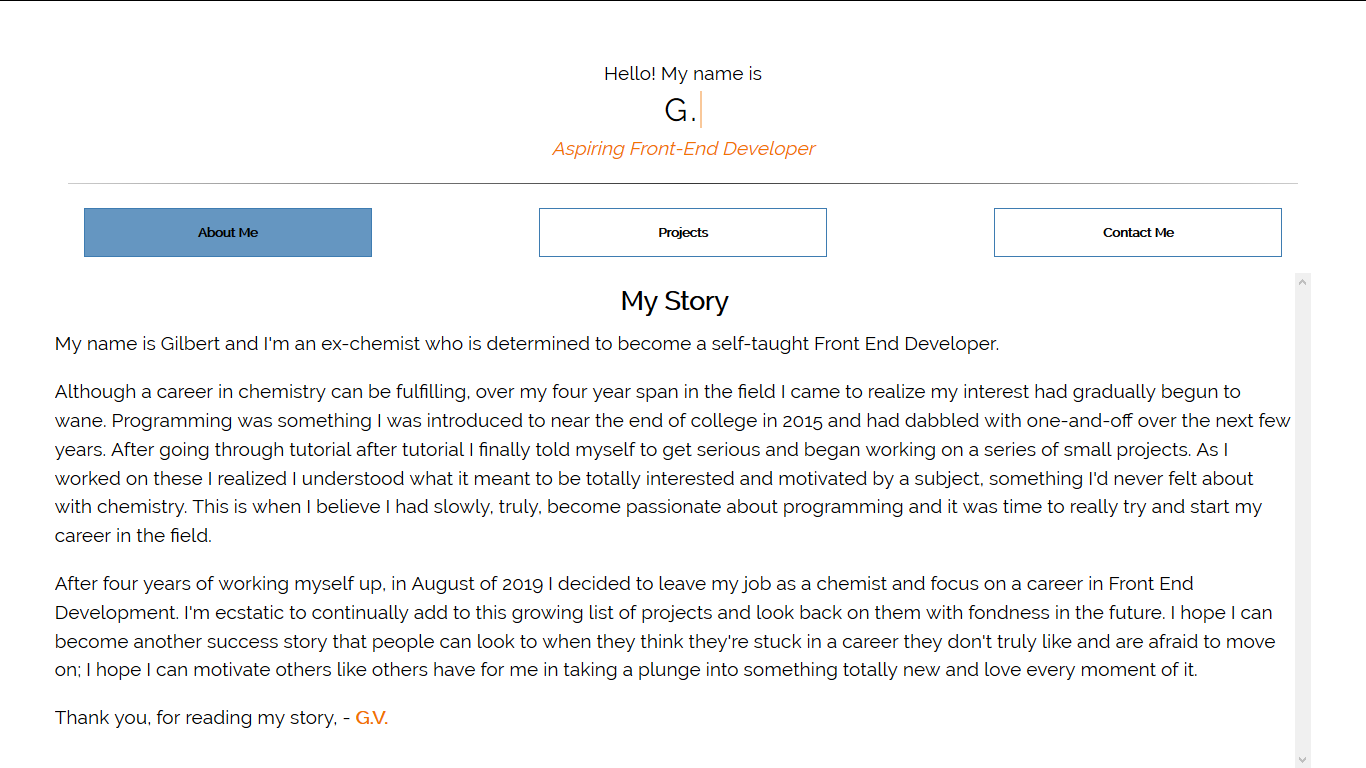
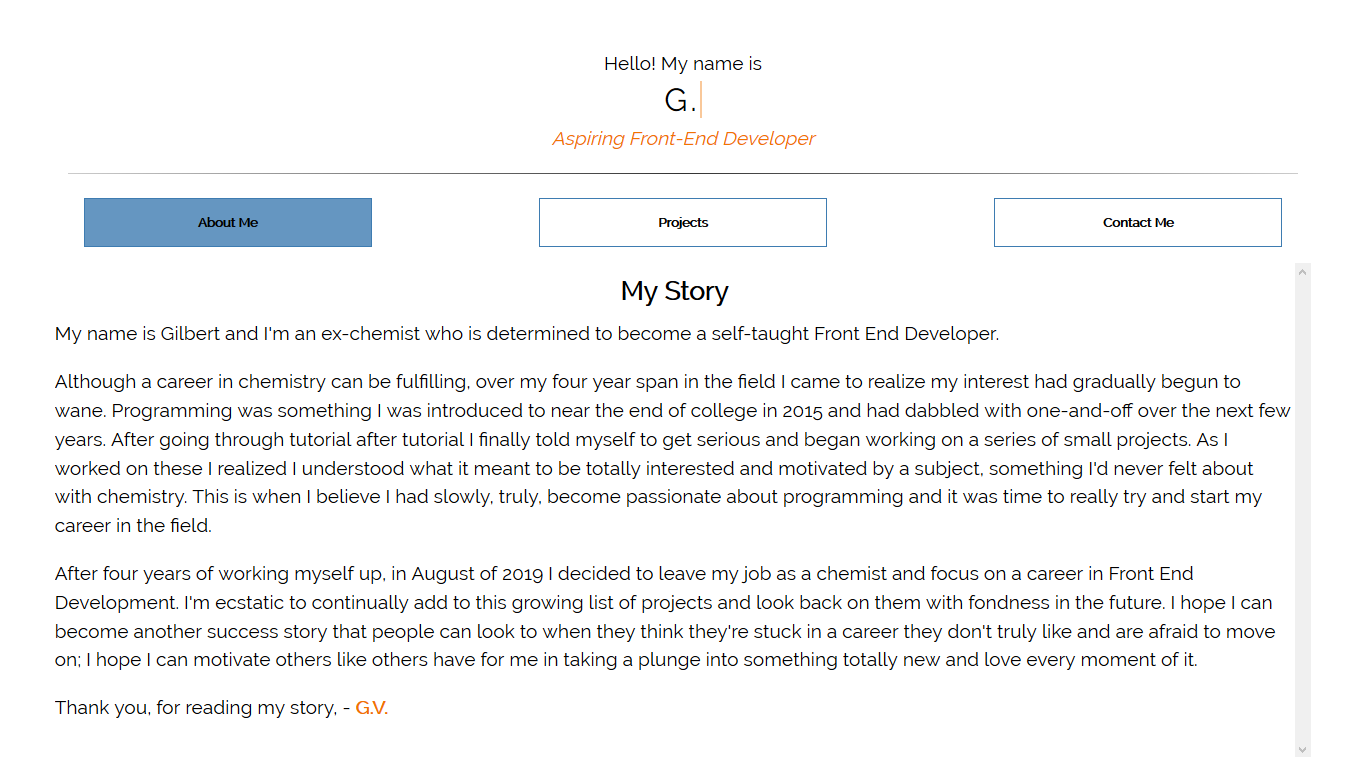
Updates

diff --git a/static/js/main.bcdf3293.chunk.js b/static/js/main.bcdf3293.chunk.js
@@ -1,0 +1,2 @@
+(this.webpackJsonpresume=this.webpackJsonpresume||[]).push([[0],[,,,,function(e,t,a){e.exports=a(17)},,,,,function(e,t,a){},function(e,t,a){},function(e,t,a){},function(e,t,a){},function(e,t,a){},function(e,t,a){},function(e,t,a){},function(e,t,a){},function(e,t,a){"use strict";a.r(t);var l=a(0),n=a.n(l),c=a(2),i=a.n(c),r=(a(9),a(3)),o=(a(10),a(11),function(){var e=["Gilbert Velazquez","Gil","Gilb\xe9","Gilly","Gilby","G."];return Object(l.useEffect)((function(){var t=document.getElementById("name"),a=1;t.addEventListener("animationiteration",(function(l){return function(l){if("typing"===l.animationName){!function l(){if(a<e.length){var n=e[a];t.innerText=n,a+=1}else a=0,l()}()}}(l)}))}),[]),n.a.createElement("div",{className:"header"},n.a.createElement("p",null,"Hello! My name is"),n.a.createElement("span",null,n.a.createElement("h1",{id:"name"},"Gilbert Velazquez")),n.a.createElement("h2",null,"Aspiring Front-End Developer"))}),m=(a(12),function(e){var t=e.titles,a=(e.category,e.click);return n.a.createElement("div",{className:"buttons-container"},t.map((function(e){return n.a.createElement("div",{className:"button",id:e,key:e,onClick:a,tabIndex:"0"},n.a.createElement("p",null,e))})))}),s=(a(13),a(14),function(){return n.a.createElement("div",{className:"about",id:"About Me-sec"},n.a.createElement("h3",null,"My Story"),n.a.createElement("p",null,"My name is Gilbert and I'm an ex-chemist who is determined to become a self-taught Front End Developer."),n.a.createElement("br",null),n.a.createElement("p",null,"Although a career in chemistry can be fulfilling, over my four year span in the field I came to realize my interest had gradually begun to wane. Programming was something I was introduced to near the end of college in 2015 and had dabbled with one-and-off over the next few years. After going through tutorial after tutorial I finally told myself to get serious and began working on a series of small projects. As I worked on these I realized I understood what it meant to be totally interested and motivated by a subject, something I'd never felt about with chemistry. This is when I believe I had slowly, truly, become passionate about programming and it was time to really try and start my career in the field."),n.a.createElement("br",null),n.a.createElement("p",null,"After four years of working myself up, in August of 2019 I decided to leave my job as a chemist and focus on a career in Front End Development. I'm ecstatic to continually add to this growing list of projects and look back on them with fondness in the future. I hope I can become another success story that people can look to when they think they're stuck in a career they don't truly like and are afraid to move on; I hope I can motivate others like others have for me in taking a plunge into something totally new and love every moment of it."),n.a.createElement("br",null),n.a.createElement("p",null,"Thank you, for reading my story, - ",n.a.createElement("span",{className:"name"},"G.V.")))}),u=(a(15),function(){var e=[{name:"JavaScript",svg:n.a.createElement("svg",{role:"img",width:"35",height:"35",viewBox:"0 0 24 24",xmlns:"http://www.w3.org/2000/svg"},n.a.createElement("title",null,"JavaScript icon"),n.a.createElement("path",{d:"M0 0h24v24H0V0zm22.034 18.276c-.175-1.095-.888-2.015-3.003-2.873-.736-.345-1.554-.585-1.797-1.14-.091-.33-.105-.51-.046-.705.15-.646.915-.84 1.515-.66.39.12.75.42.976.9 1.034-.676 1.034-.676 1.755-1.125-.27-.42-.404-.601-.586-.78-.63-.705-1.469-1.065-2.834-1.034l-.705.089c-.676.165-1.32.525-1.71 1.005-1.14 1.291-.811 3.541.569 4.471 1.365 1.02 3.361 1.244 3.616 2.205.24 1.17-.87 1.545-1.966 1.41-.811-.18-1.26-.586-1.755-1.336l-1.83 1.051c.21.48.45.689.81 1.109 1.74 1.756 6.09 1.666 6.871-1.004.029-.09.24-.705.074-1.65l.046.067zm-8.983-7.245h-2.248c0 1.938-.009 3.864-.009 5.805 0 1.232.063 2.363-.138 2.711-.33.689-1.18.601-1.566.48-.396-.196-.597-.466-.83-.855-.063-.105-.11-.196-.127-.196l-1.825 1.125c.305.63.75 1.172 1.324 1.517.855.51 2.004.675 3.207.405.783-.226 1.458-.691 1.811-1.411.51-.93.402-2.07.397-3.346.012-2.054 0-4.109 0-6.179l.004-.056z"}))},{name:"CSS3",svg:n.a.createElement("svg",{role:"img",width:"35",height:"35",viewBox:"0 0 24 24",xmlns:"http://www.w3.org/2000/svg"},n.a.createElement("title",null,"CSS3 icon"),n.a.createElement("path",{d:"M1.5 0h21l-1.91 21.563L11.977 24l-8.565-2.438L1.5 0zm17.09 4.413L5.41 4.41l.213 2.622 10.125.002-.255 2.716h-6.64l.24 2.573h6.182l-.366 3.523-2.91.804-2.956-.81-.188-2.11h-2.61l.29 3.855L12 19.288l5.373-1.53L18.59 4.414z"}))},{name:"HTML5",svg:n.a.createElement("svg",{role:"img",width:"35",height:"35",viewBox:"0 0 24 24",xmlns:"http://www.w3.org/2000/svg"},n.a.createElement("title",null,"HTML5 icon"),n.a.createElement("path",{d:"M1.5 0h21l-1.91 21.563L11.977 24l-8.564-2.438L1.5 0zm7.031 9.75l-.232-2.718 10.059.003.23-2.622L5.412 4.41l.698 8.01h9.126l-.326 3.426-2.91.804-2.955-.81-.188-2.11H6.248l.33 4.171L12 19.351l5.379-1.443.744-8.157H8.531z"}))},{name:"React",svg:n.a.createElement("svg",{role:"img",width:"35",height:"35",viewBox:"0 0 24 24",xmlns:"http://www.w3.org/2000/svg"},n.a.createElement("title",null,"React icon"),n.a.createElement("path",{d:"M12 9.861A2.139 2.139 0 1 0 12 14.139 2.139 2.139 0 1 0 12 9.861zM6.008 16.255l-.472-.12C2.018 15.246 0 13.737 0 11.996s2.018-3.25 5.536-4.139l.472-.119.133.468a23.53 23.53 0 0 0 1.363 3.578l.101.213-.101.213a23.307 23.307 0 0 0-1.363 3.578l-.133.467zM5.317 8.95c-2.674.751-4.315 1.9-4.315 3.046 0 1.145 1.641 2.294 4.315 3.046a24.95 24.95 0 0 1 1.182-3.046A24.752 24.752 0 0 1 5.317 8.95zM17.992 16.255l-.133-.469a23.357 23.357 0 0 0-1.364-3.577l-.101-.213.101-.213a23.42 23.42 0 0 0 1.364-3.578l.133-.468.473.119c3.517.889 5.535 2.398 5.535 4.14s-2.018 3.25-5.535 4.139l-.473.12zm-.491-4.259c.48 1.039.877 2.06 1.182 3.046 2.675-.752 4.315-1.901 4.315-3.046 0-1.146-1.641-2.294-4.315-3.046a24.788 24.788 0 0 1-1.182 3.046zM5.31 8.945l-.133-.467C4.188 4.992 4.488 2.494 6 1.622c1.483-.856 3.864.155 6.359 2.716l.34.349-.34.349a23.552 23.552 0 0 0-2.422 2.967l-.135.193-.235.02a23.657 23.657 0 0 0-3.785.61l-.472.119zm1.896-6.63c-.268 0-.505.058-.705.173-.994.573-1.17 2.565-.485 5.253a25.122 25.122 0 0 1 3.233-.501 24.847 24.847 0 0 1 2.052-2.544c-1.56-1.519-3.037-2.381-4.095-2.381zM16.795 22.677c-.001 0-.001 0 0 0-1.425 0-3.255-1.073-5.154-3.023l-.34-.349.34-.349a23.53 23.53 0 0 0 2.421-2.968l.135-.193.234-.02a23.63 23.63 0 0 0 3.787-.609l.472-.119.134.468c.987 3.484.688 5.983-.824 6.854a2.38 2.38 0 0 1-1.205.308zm-4.096-3.381c1.56 1.519 3.037 2.381 4.095 2.381h.001c.267 0 .505-.058.704-.173.994-.573 1.171-2.566.485-5.254a25.02 25.02 0 0 1-3.234.501 24.674 24.674 0 0 1-2.051 2.545zM18.69 8.945l-.472-.119a23.479 23.479 0 0 0-3.787-.61l-.234-.02-.135-.193a23.414 23.414 0 0 0-2.421-2.967l-.34-.349.34-.349C14.135 1.778 16.515.767 18 1.622c1.512.872 1.812 3.37.824 6.855l-.134.468zM14.75 7.24c1.142.104 2.227.273 3.234.501.686-2.688.509-4.68-.485-5.253-.988-.571-2.845.304-4.8 2.208A24.849 24.849 0 0 1 14.75 7.24zM7.206 22.677A2.38 2.38 0 0 1 6 22.369c-1.512-.871-1.812-3.369-.823-6.854l.132-.468.472.119c1.155.291 2.429.496 3.785.609l.235.02.134.193a23.596 23.596 0 0 0 2.422 2.968l.34.349-.34.349c-1.898 1.95-3.728 3.023-5.151 3.023zm-1.19-6.427c-.686 2.688-.509 4.681.485 5.254.987.563 2.843-.305 4.8-2.208a24.998 24.998 0 0 1-2.052-2.545 24.976 24.976 0 0 1-3.233-.501zM12 16.878c-.823 0-1.669-.036-2.516-.106l-.235-.02-.135-.193a30.388 30.388 0 0 1-1.35-2.122 30.354 30.354 0 0 1-1.166-2.228l-.1-.213.1-.213a30.3 30.3 0 0 1 1.166-2.228c.414-.716.869-1.43 1.35-2.122l.135-.193.235-.02a29.785 29.785 0 0 1 5.033 0l.234.02.134.193a30.006 30.006 0 0 1 2.517 4.35l.101.213-.101.213a29.6 29.6 0 0 1-2.517 4.35l-.134.193-.234.02c-.847.07-1.694.106-2.517.106zm-2.197-1.084c1.48.111 2.914.111 4.395 0a29.006 29.006 0 0 0 2.196-3.798 28.585 28.585 0 0 0-2.197-3.798 29.031 29.031 0 0 0-4.394 0 28.477 28.477 0 0 0-2.197 3.798 29.114 29.114 0 0 0 2.197 3.798z"}))},{name:"Sass",svg:n.a.createElement("svg",{role:"img",width:"35",height:"35",viewBox:"0 0 24 24",xmlns:"http://www.w3.org/2000/svg"},n.a.createElement("title",null,"Sass icon"),n.a.createElement("path",{d:"M12 0c6.627 0 12 5.373 12 12s-5.373 12-12 12S0 18.627 0 12 5.373 0 12 0zM9.615 15.998c.175.645.156 1.248-.024 1.792l-.065.18c-.024.061-.052.12-.078.176-.14.29-.326.56-.555.81-.698.759-1.672 1.047-2.09.805-.45-.262-.226-1.335.584-2.19.871-.918 2.12-1.509 2.12-1.509v-.003l.108-.061zm9.911-10.861c-.542-2.133-4.077-2.834-7.422-1.645-1.989.707-4.144 1.818-5.693 3.267C4.568 8.48 4.275 9.98 4.396 10.607c.427 2.211 3.457 3.657 4.703 4.73v.006c-.367.18-3.056 1.529-3.686 2.925-.675 1.47.105 2.521.615 2.655 1.575.436 3.195-.36 4.065-1.649.84-1.261.766-2.881.404-3.676.496-.135 1.08-.195 1.83-.104 2.101.24 2.521 1.56 2.43 2.1-.09.539-.523.854-.674.944-.15.091-.195.12-.181.181.015.09.091.09.21.075.165-.03 1.096-.45 1.141-1.471.045-1.29-1.186-2.729-3.375-2.7-.9.016-1.471.091-1.875.256-.03-.045-.061-.075-.105-.105-1.35-1.455-3.855-2.475-3.75-4.41.03-.705.285-2.564 4.8-4.814 3.705-1.846 6.661-1.335 7.171-.21.733 1.604-1.576 4.59-5.431 5.024-1.47.165-2.235-.404-2.431-.615-.209-.225-.239-.24-.314-.194-.12.06-.045.255 0 .375.12.3.585.825 1.396 1.095.704.225 2.43.359 4.5-.45 2.324-.899 4.139-3.405 3.614-5.505l.073.067z"}))},{name:"Git",svg:n.a.createElement("svg",{role:"img",width:"35",height:"35",viewBox:"0 0 24 24",xmlns:"http://www.w3.org/2000/svg"},n.a.createElement("title",null,"Git icon"),n.a.createElement("path",{d:"M23.546 10.93L13.067.452c-.604-.603-1.582-.603-2.188 0L8.708 2.627l2.76 2.76c.645-.215 1.379-.07 1.889.441.516.515.658 1.258.438 1.9l2.658 2.66c.645-.223 1.387-.078 1.9.435.721.72.721 1.884 0 2.604-.719.719-1.881.719-2.6 0-.539-.541-.674-1.337-.404-1.996L12.86 8.955v6.525c.176.086.342.203.488.348.713.721.713 1.883 0 2.6-.719.721-1.889.721-2.609 0-.719-.719-.719-1.879 0-2.598.182-.18.387-.316.605-.406V8.835c-.217-.091-.424-.222-.6-.401-.545-.545-.676-1.342-.396-2.009L7.636 3.7.45 10.881c-.6.605-.6 1.584 0 2.189l10.48 10.477c.604.604 1.582.604 2.186 0l10.43-10.43c.605-.603.605-1.582 0-2.187"}))},{name:"NPM",svg:n.a.createElement("svg",{role:"img",width:"35",height:"35",viewBox:"0 0 24 24",xmlns:"http://www.w3.org/2000/svg"},n.a.createElement("title",null,"NPM icon"),n.a.createElement("path",{d:"M0 7.334v8h6.666v1.332H12v-1.332h12v-8H0zm6.666 6.664H5.334v-4H3.999v4H1.335V8.667h5.331v5.331zm4 0v1.336H8.001V8.667h5.334v5.332h-2.669v-.001zm12.001 0h-1.33v-4h-1.336v4h-1.335v-4h-1.33v4h-2.671V8.667h8.002v5.331zM10.665 10H12v2.667h-1.335V10z"}))}],t=[{name:"NETFLUX",image:"assets/images/NETFLUX.png",description:"A netflix clone I made using React. It utilizes the TMDB(The Movie Database) and Youtube API.",demo:"https://gilv93.github.io/NETFLUX",code:"https://github.com/gilv93/NETFLUX"},{name:"Portfolio",image:"assets/images/portfolio.png",description:"My portfolio site created using using React.",demo:"https://gilv93.github.io/portfolio",code:"https://github.com/gilv93/portfolio"}];return n.a.createElement("div",{className:"projects",id:"Projects-sec"},n.a.createElement("h3",null,"My Projects"),n.a.createElement("div",{className:"skills-sec"},n.a.createElement("p",null,"A quick overview of my favorite tools and projects:"),n.a.createElement("h4",null,"Skills"),n.a.createElement("div",{className:"skills"},e.map((function(e){return n.a.createElement("div",{className:"skill-cont",key:e.name},e.svg,n.a.createElement("p",null,e.name))}))),n.a.createElement("h4",null,"Projects"),n.a.createElement("div",{className:"projects-sec"},t.map((function(e){return n.a.createElement("div",{className:"project-cont",key:e.name},n.a.createElement("img",{src:e.image,alt:e.name}),n.a.createElement("p",{style:{color:"#F17300","font-style":"italic"}},e.name),n.a.createElement("p",null,e.description),n.a.createElement("div",{className:"links"},n.a.createElement("a",{href:e.demo,target:"_blank"},"Demo"),n.a.createElement("a",{href:e.code,target:"_blank"},"Code")))})))))}),h=(a(16),function(){return n.a.createElement("div",{className:"contact",id:"Contact Me-sec"},n.a.createElement("h1",null,"CONTACTS"))}),d=function(e){e.category;return n.a.createElement("div",{className:"text"},n.a.createElement(s,null),n.a.createElement(u,null),n.a.createElement(h,null),n.a.createElement("div",{className:"default",id:"default-sec"},n.a.createElement("h1",null,"Let's make a website together.")))},g=function(){var e=Object(l.useState)("default"),t=Object(r.a)(e,2),a=t[0],c=t[1];return n.a.createElement("div",{className:"app",id:"app-sec"},n.a.createElement("div",{className:"premiere"},n.a.createElement(o,null),n.a.createElement("hr",null),n.a.createElement(m,{category:a,titles:["About Me","Projects","Contact Me"],click:function(e){try{document.getElementById(a+"-sec").classList.toggle("active"),document.getElementById(a).className="button"}catch(t){}c(e.target.id),e.target.className="active",document.getElementById(e.target.id+"-sec").classList.toggle("active")}})),n.a.createElement(d,{category:a}))};i.a.render(n.a.createElement(g,null),document.getElementById("root"))}],[[4,1,2]]]);
+//# sourceMappingURL=main.bcdf3293.chunk.js.map

diff --git a/static/css/main.fea00f69.chunk.css b/static/css/main.fea00f69.chunk.css
@@ -1,0 +1,2 @@
+body,html{height:100%;width:100%;margin:0;box-sizing:border-box;font-family:Raleway,sans-serif}.app{display:flex;flex-direction:column;justify-content:flex-start;align-items:center;height:100vh;overflow:hidden}.app hr{border:0;height:1px;background:#333;background-image:-webkit-gradient(linear,left top,right top,from(#ccc),color-stop(#333),to(#ccc));background-image:linear-gradient(90deg,#ccc,#333,#ccc);width:90vw;margin:1.5em auto}.header{margin-top:8vh}.header p{font-weight:lighter;font-size:1.2em;text-align:center;margin:0}.header h1{max-width:-webkit-fit-content;max-width:-moz-fit-content;max-width:fit-content;font-weight:500;margin:.2em auto .3em;border-right:.08em solid #f17300;overflow:hidden;white-space:nowrap;letter-spacing:.1em;-webkit-animation:typing 5.5s steps(15) infinite,blinking .75s infinite;animation:typing 5.5s steps(15) infinite,blinking .75s infinite}@-webkit-keyframes typing{0%{width:0}25%{width:100%}50%{width:100%}75%{width:0}to{width:0}}@keyframes typing{0%{width:0}25%{width:100%}50%{width:100%}75%{width:0}to{width:0}}@-webkit-keyframes blinking{50%{border-color:#f17300}to{border-color:transparent}}@keyframes blinking{50%{border-color:#f17300}to{border-color:transparent}}.header h2{font-weight:lighter;font-size:1.2em;text-align:center;margin:0;font-style:italic;color:#f17300}.buttons-container{display:flex;justify-content:space-evenly;width:100vw;margin-bottom:1em}.buttons-container .active,.buttons-container .button{text-align:center;border:1px solid #3e7cb1;font-size:.8em;width:20vw;font-weight:600;padding:.25em .5em;margin:0 auto}.buttons-container .active:hover,.buttons-container .button:hover{background:rgba(62,124,177,.5)}.buttons-container .active p,.buttons-container .button p{pointer-events:none}.buttons-container .active{background:rgba(62,124,177,.8)}.text{display:flex;justify-content:center;align-items:center;flex-direction:column;height:100%;position:relative;width:100%}.text .default{text-align:center;font-style:italic;height:100%;margin-top:8em;margin-bottom:auto;margin-right:0;-webkit-transition:margin-right .5s linear;transition:margin-right .5s linear}.text .default.active{margin-right:300vw}.about{margin-left:200vw;height:100%;position:absolute;width:92%;-webkit-transition:margin-left .5s linear;transition:margin-left .5s linear;overflow-y:scroll}.about h3{text-align:center;font-size:1.6em;width:50vw;margin:.5em auto}.about p{font-size:1.2em;text-align:left;margin:0;line-height:1.5em}.about .name{color:#f17300;font-weight:1000}.about.active{margin-left:0}.projects{margin-left:200vw;height:100%;position:absolute;width:92%;-webkit-transition:margin-left .5s linear,margin-right .5s linear;transition:margin-left .5s linear,margin-right .5s linear;overflow-y:scroll;overflow-x:hidden}.projects h3{text-align:center;font-size:1.6em;margin:.5em auto}.projects p{font-size:1.2em;text-align:left;margin:0;line-height:1.5em}.projects .name{color:#f17300;font-weight:1000}.projects.active{margin-left:0}.projects .skills-sec p{text-align:center}.projects .skills-sec h4{text-align:center;font-size:1.4em;margin:.5em}.projects .skills-sec .skills{display:flex;font-size:.8em;flex-wrap:wrap;justify-content:center;align-items:center}.projects .skills-sec .skill-cont{display:flex;flex-direction:column;align-items:center;height:6em;width:5em;margin:.5em;justify-content:center}.projects .skills-sec .skill-cont svg{fill:#f17300}.projects .projects-sec{height:100%}.projects .projects-sec .project-cont{display:flex;flex-direction:column;justify-content:center;align-items:center}.projects .projects-sec .project-cont img{height:25vh;width:90vw}.projects .projects-sec .project-cont .links{display:flex;width:100%;justify-content:space-evenly;margin:1em}.contact{margin-left:200vw;height:100%;position:absolute;width:92%;-webkit-transition:margin-left .5s linear;transition:margin-left .5s linear;overflow-y:scroll}.contact h3{text-align:center;font-size:1.6em}.contact p{font-size:1.2em;text-align:left;margin:0;line-height:1.5em}.contact .name{color:#f17300;font-weight:1000}.contact.active{margin-left:0}
+/*# sourceMappingURL=main.fea00f69.chunk.css.map */

diff --git a/index.html b/index.html
@@ -1,1 +1,1 @@
-<!doctype html><html lang="en"><head><meta charset="utf-8"/><meta name="viewport" content="width=device-width,initial-scale=1"/><link href="https://fonts.googleapis.com/css?family=Raleway&display=swap" rel="stylesheet"><title>Gilbert Velazquez</title><link href="/portfolio/static/css/main.79fe0a5d.chunk.css" rel="stylesheet"></head><body><div id="root"></div><script>!function(i){function e(e){for(var r,t,n=e[0],o=e[1],u=e[2],l=0,f=[];l<n.length;l++)t=n[l],Object.prototype.hasOwnProperty.call(a,t)&&a[t]&&f.push(a[t][0]),a[t]=0;for(r in o)Object.prototype.hasOwnProperty.call(o,r)&&(i[r]=o[r]);for(s&&s(e);f.length;)f.shift()();return c.push.apply(c,u||[]),p()}function p(){for(var e,r=0;r<c.length;r++){for(var t=c[r],n=!0,o=1;o<t.length;o++){var u=t[o];0!==a[u]&&(n=!1)}n&&(c.splice(r--,1),e=l(l.s=t[0]))}return e}var t={},a={1:0},c=[];function l(e){if(t[e])return t[e].exports;var r=t[e]={i:e,l:!1,exports:{}};return i[e].call(r.exports,r,r.exports,l),r.l=!0,r.exports}l.m=i,l.c=t,l.d=function(e,r,t){l.o(e,r)||Object.defineProperty(e,r,{enumerable:!0,get:t})},l.r=function(e){"undefined"!=typeof Symbol&&Symbol.toStringTag&&Object.defineProperty(e,Symbol.toStringTag,{value:"Module"}),Object.defineProperty(e,"__esModule",{value:!0})},l.t=function(r,e){if(1&e&&(r=l(r)),8&e)return r;if(4&e&&"object"==typeof r&&r&&r.__esModule)return r;var t=Object.create(null);if(l.r(t),Object.defineProperty(t,"default",{enumerable:!0,value:r}),2&e&&"string"!=typeof r)for(var n in r)l.d(t,n,function(e){return r[e]}.bind(null,n));return t},l.n=function(e){var r=e&&e.__esModule?function(){return e.default}:function(){return e};return l.d(r,"a",r),r},l.o=function(e,r){return Object.prototype.hasOwnProperty.call(e,r)},l.p="/portfolio/";var r=this.webpackJsonpresume=this.webpackJsonpresume||[],n=r.push.bind(r);r.push=e,r=r.slice();for(var o=0;o<r.length;o++)e(r[o]);var s=n;p()}([])</script><script src="/portfolio/static/js/2.f3a6e3f8.chunk.js"></script><script src="/portfolio/static/js/main.103d1de6.chunk.js"></script></body></html>
+<!doctype html><html lang="en"><head><meta charset="utf-8"/><meta name="viewport" content="width=device-width,initial-scale=1"/><link href="https://fonts.googleapis.com/css?family=Raleway&display=swap" rel="stylesheet"><title>Gilbert Velazquez</title><link href="/portfolio/static/css/main.fea00f69.chunk.css" rel="stylesheet"></head><body><div id="root"></div><script>!function(i){function e(e){for(var r,t,n=e[0],o=e[1],u=e[2],l=0,f=[];l<n.length;l++)t=n[l],Object.prototype.hasOwnProperty.call(a,t)&&a[t]&&f.push(a[t][0]),a[t]=0;for(r in o)Object.prototype.hasOwnProperty.call(o,r)&&(i[r]=o[r]);for(s&&s(e);f.length;)f.shift()();return c.push.apply(c,u||[]),p()}function p(){for(var e,r=0;r<c.length;r++){for(var t=c[r],n=!0,o=1;o<t.length;o++){var u=t[o];0!==a[u]&&(n=!1)}n&&(c.splice(r--,1),e=l(l.s=t[0]))}return e}var t={},a={1:0},c=[];function l(e){if(t[e])return t[e].exports;var r=t[e]={i:e,l:!1,exports:{}};return i[e].call(r.exports,r,r.exports,l),r.l=!0,r.exports}l.m=i,l.c=t,l.d=function(e,r,t){l.o(e,r)||Object.defineProperty(e,r,{enumerable:!0,get:t})},l.r=function(e){"undefined"!=typeof Symbol&&Symbol.toStringTag&&Object.defineProperty(e,Symbol.toStringTag,{value:"Module"}),Object.defineProperty(e,"__esModule",{value:!0})},l.t=function(r,e){if(1&e&&(r=l(r)),8&e)return r;if(4&e&&"object"==typeof r&&r&&r.__esModule)return r;var t=Object.create(null);if(l.r(t),Object.defineProperty(t,"default",{enumerable:!0,value:r}),2&e&&"string"!=typeof r)for(var n in r)l.d(t,n,function(e){return r[e]}.bind(null,n));return t},l.n=function(e){var r=e&&e.__esModule?function(){return e.default}:function(){return e};return l.d(r,"a",r),r},l.o=function(e,r){return Object.prototype.hasOwnProperty.call(e,r)},l.p="/portfolio/";var r=this.webpackJsonpresume=this.webpackJsonpresume||[],n=r.push.bind(r);r.push=e,r=r.slice();for(var o=0;o<r.length;o++)e(r[o]);var s=n;p()}([])</script><script src="/portfolio/static/js/2.f3a6e3f8.chunk.js"></script><script src="/portfolio/static/js/main.bcdf3293.chunk.js"></script></body></html>

diff --git a/precache-manifest.691b9792378999a799a6a026c212f29f.js b/precache-manifest.691b9792378999a799a6a026c212f29f.js
@@ -1,19 +1,19 @@
 self.__precacheManifest = (self.__precacheManifest || []).concat([
   {
-    "revision": "83a0fb1cd7fcf42b09816a7938e02f2e",
+    "revision": "41080704aeb4104e76684664c14b2da7",
     "url": "/portfolio/index.html"
   },
   {
-    "revision": "2a7a54ba7266cbbf4826",
-    "url": "/portfolio/static/css/main.79fe0a5d.chunk.css"
+    "revision": "e61b562aff9c4e49c2e2",
+    "url": "/portfolio/static/css/main.fea00f69.chunk.css"
   },
   {
     "revision": "cd69f058b63a614187f5",
     "url": "/portfolio/static/js/2.f3a6e3f8.chunk.js"
   },
   {
-    "revision": "2a7a54ba7266cbbf4826",
-    "url": "/portfolio/static/js/main.103d1de6.chunk.js"
+    "revision": "e61b562aff9c4e49c2e2",
+    "url": "/portfolio/static/js/main.bcdf3293.chunk.js"
   },
   {
     "revision": "333a05a02cb7ff62019d",

diff --git a/service-worker.js b/service-worker.js
@@ -14,7 +14,7 @@
 importScripts("https://storage.googleapis.com/workbox-cdn/releases/4.3.1/workbox-sw.js");
 
 importScripts(
-  "/portfolio/precache-manifest.9f32663f40e5aa9e2c128a05c416e2db.js"
+  "/portfolio/precache-manifest.691b9792378999a799a6a026c212f29f.js"
 );
 
 self.addEventListener('message', (event) => {
